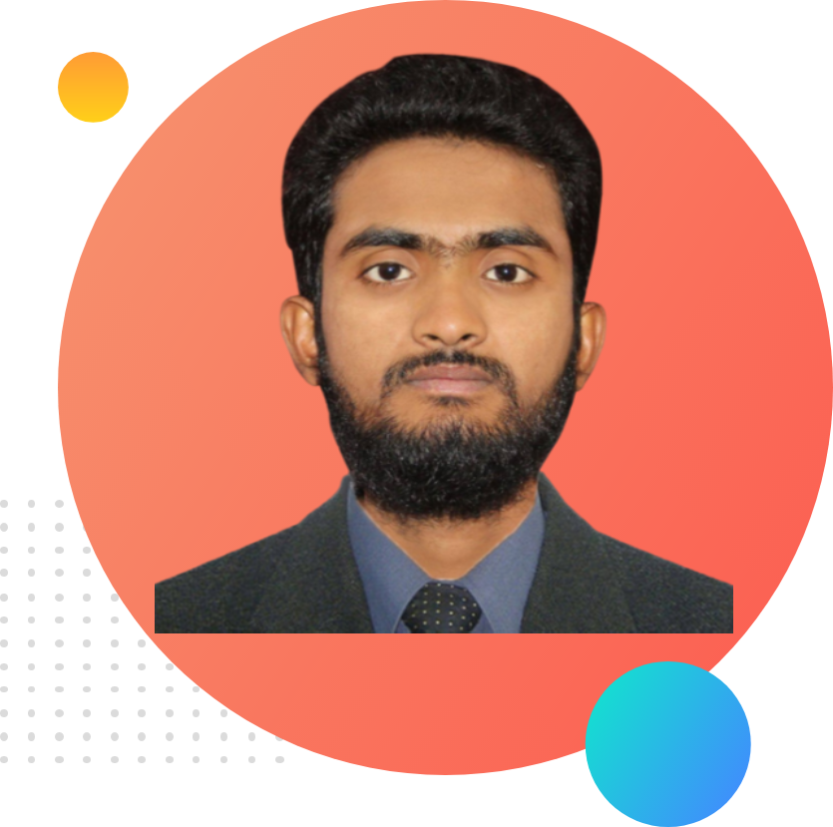
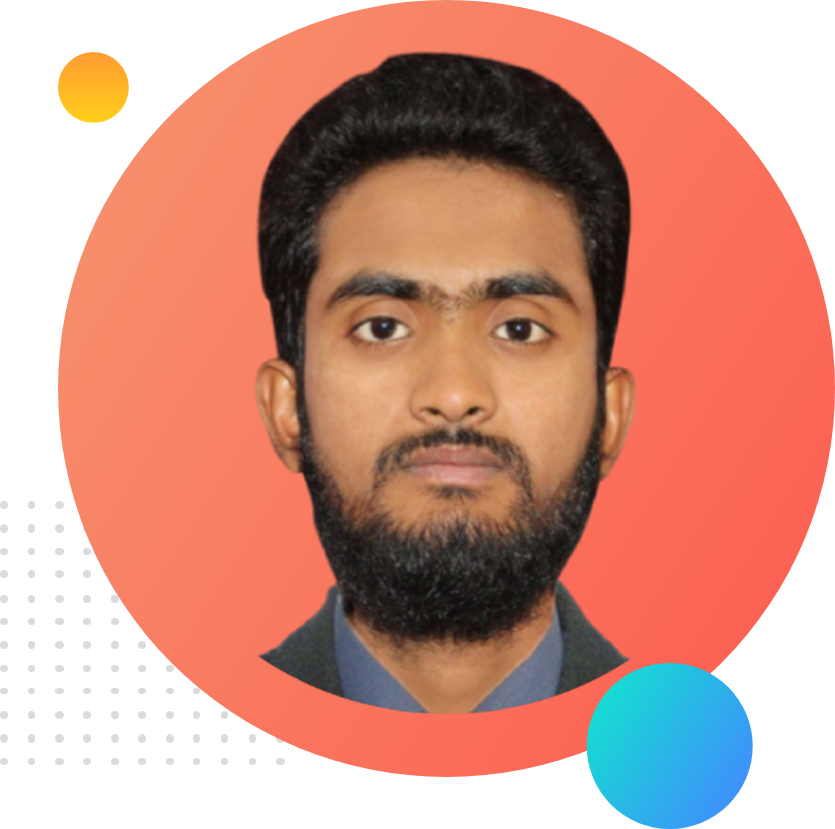
New Image Add

Changed region(s): [[0.1873, 0.0907, 0.9052, 0.8767], [0.437, 0.0605, 0.6867, 0.1209]]

diff --git a/index.html b/index.html
@@ -32,11 +32,11 @@
     </section>
     <section class="dream-big flexible-container">
         <div class="half-width">
-            <img src="images/My Photo bg.png" alt="">
+            <img src="images/my-bg2.png" alt="">
         </div>
         <div class="half-width">
             <h1>Dream Big</h1>
-            <h2>Become a web developer</h2>
+            <h3>Become a web developer</h3>
             <p>I already learned the basic HTML and CSS. I can build any simple website. I can even teach my grandma how
                 to make simple website. My goal is to build 3 websites and learn advanced topics.</p>
             <a class="link-button" target="_blank" href="images/Md._Mostofa_Adnan.pdf">DOWNLOAD RESUME</a>
